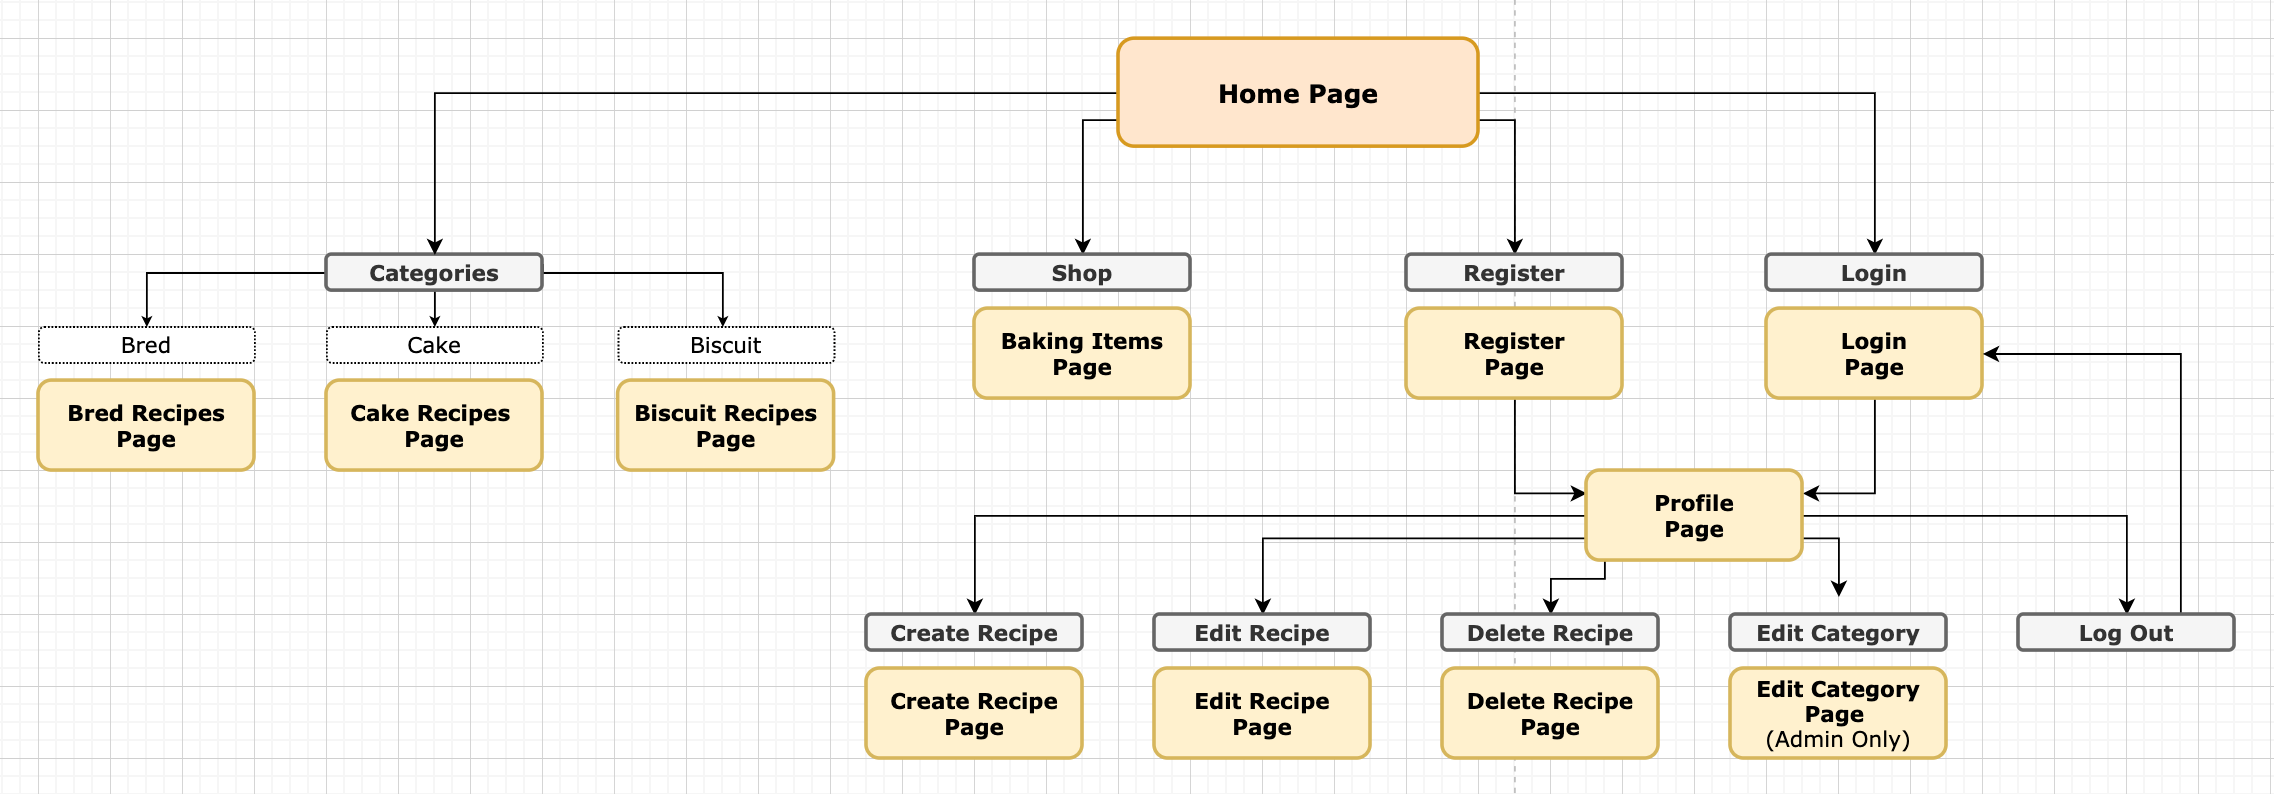
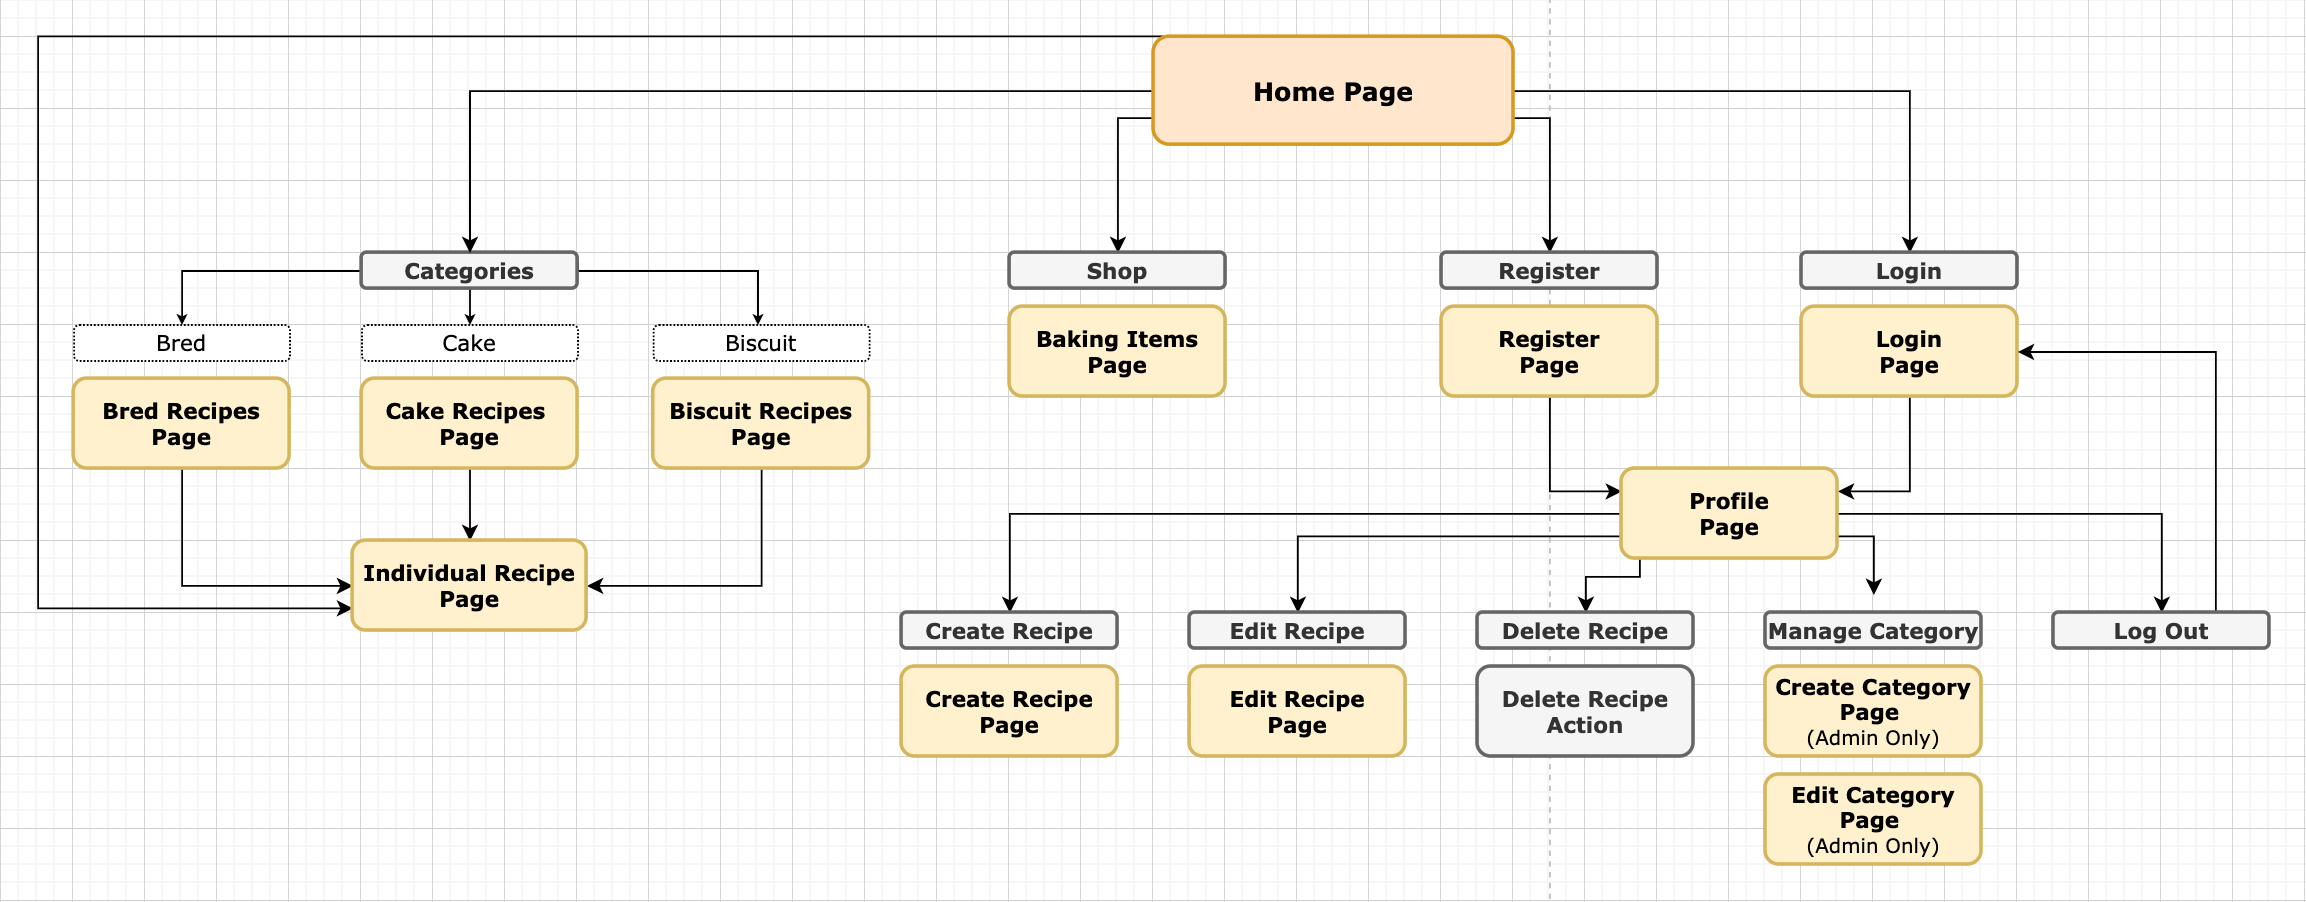
Update skelton plane for ux5 on README.md

Changed region(s): [[0.0, 0.0, 1.0, 1.0]]

diff --git a/README.md b/README.md
@@ -12,6 +12,7 @@ It is a mobile responsive website and the link to the website is available HERE.
     * ##### [Strategy Plane](#strategy-plane-heading)
     * ##### [Scope Plane](#scope-plane-heading)
     * ##### [Structure Plane](#structure-plane-heading)
+    * ##### [Skeleton Plane](#skeleton-plane-heading)
 
 ## WHO'S THIS WEBSITE FOR? <a name="whos-this-website-for-heading"></a>
 This is a website for people who simply love baking, or even just beginning to be interested in baking. People who would like to look at someone’s recipes for new ideas and / or who would like to share their own recipes with other people. 
@@ -33,18 +34,18 @@ The website is designed for those who love baking, and who are interested in bak
 
 All the functions on the tables below are minimum requirements on the website to achieve the current user's and owner's goals. &#40;On a scale of 1 &#91;least&#93; - 5 &#91;most&#93;&#41;
 
-| Opportunity                               | Importance | Viability / Feasibility |
-| :---------------------------------------- | :--------: | :---------------------: |
-| Register                                  |     5      |            5            |
-| Login / Log out                           |     5      |            5            |
-| Post / Edit / Delete Recipes              |     5      |            4            |
-| Search By Keywords                        |     4      |            5            |
-| Show Recipes By Category                  |     4      |            5            |
-| Shop &#40;Affiliate&#41;                  |     4      |            5            |
-| Responsiveness                            |     4      |            5            |
-| Subscribe News Letter                     |     4      |            4            |
-| Edit Recipe Category &#40;Admin only&#41; |     3      |            5            |
-| Page 404                                  |     3      |            4            |
+| Opportunity                                 | Importance | Viability / Feasibility |
+| :------------------------------------------ | :--------: | :---------------------: |
+| Register                                    |     5      |            5            |
+| Login / Log out                             |     5      |            5            |
+| Post / Edit / Delete Recipes                |     5      |            4            |
+| Search By Keywords                          |     4      |            5            |
+| Show Recipes By Category                    |     4      |            5            |
+| Shop &#40;Affiliate&#41;                    |     4      |            5            |
+| Responsiveness                              |     4      |            5            |
+| Subscribe Newsletter                        |     4      |            4            |
+| Manage Recipe Category &#40;Admin only&#41; |     3      |            5            |
+| Page 404                                    |     3      |            4            |
 
 Below are the additional functions that can improve the website, however, these are not mandatory to achieve the current user's and owner's goals. Some are not implemented due to a lack of my current skills & knowledge and some due to a lack of time.
 
@@ -64,39 +65,87 @@ To achieve user and owner’s goals, below are the minimum features to be includ
 *    Categories &#40;Bread, Cake and Biscuit&#41; pages that users can see recipes by the categories &#40;R&#41;
 *    Shop page that users can see some baking items, which are linked to the seller’s website
 *    Register page that users can create an account to post recipes
-*    Login page that users can log in to the website 
+*    Login page that users can log in to the website
 *    Logout function that users can log out
+*    Profile page that users can see all the recipes and access to add, edit and delete recipes 
 *    Create Recipe page that users can create their recipes and post them &#40;C&#41;
 *    Edit Recipe page that users can edit their recipes &#40;U&#41;
-*    Delete Recipe page that users can delete their recipes &#40;D&#41;
-*    Edit Categories page that owner can create, edit and delete categories &#40;C & U & D&#41;
+*    Delete Recipe function that users can delete their recipes &#40;D&#41;
+*    Manage Categories functions that only the owner can create, edit and delete categories &#40;C & U & D&#41;
 *    Search by keywords function that users can search for specific recipes
 *    Subscribe Newsletter input to collect users email address
-*    404 page that will take users back to the home page of the website safely  
+*    404 page that takes users back to the home page of the website safely  
 
 <div align="right"><a href="#table-of-contents">🔝</a></div>
 
 ### Structure Plane <a name="structure-plane-heading"></a>
 
 — Front-end —<br>
-The website consists of a **Home** page with **10 other core pages**.
-*    **Home** &#40;`index.html`&#41;<br>The main page of the website. There is a log, navigation bar to *Categories* &#40;`categories_bred | cake | biscuit.html`&#41;, *Shop* &#40;`shop.html`&#41;, *Register* &#40;`register.html`&#41; and *Login* &#40;`login.html`&#41; pages, a hero image and all the recipes are contained. There is a footer with some social icons and a form to subscribe to newsletters
-*    **Categories** &#40;`categories_bred | cake | biscuit.html`&#41;<br>The pages where users can see recipes by category. The same header and footer are used as *Home*
+The website consists of a **Home** page with **13 other core pages**.
+*    **Home** &#40;`index.html`&#41;<br>The main page of the website. There is a logo, navigation bar to *Categories*, *Shop*, *Register* and *Login* pages, a hero image, all the summary of recipes are contained and users can access to a full *Recipe* page. There is a footer with a form to subscribe to newsletters and some social icons
+
+*    **Categories** &#40;`categories_bred | cake | biscuit.html`&#41;<br>The pages where users can see recipes by category and access to a full *Recipe* page. The same header and footer are used as *Home*
+
 *    **Recipe** &#40;`recipe+uniequ-name/id.html`&#41;<br>The page where the details of recipe are shown individually. The same header and footer are used as *Home*
+
 *    **Shop** &#40;`shop.html`&#41;<br>The page where users can see some baking items and purchase them on the seller's website. The same header and footer are used as *Home*
-*    **Register** &#40;`register.html`&#41;<br>The page where users can create an account. Once users create an account successfully, they will be led to the *Profile* &#40;`profile.html`&#41; page. Header is different to *home* page and there is no footer
-*    **Login** &#40;`login.html`&#41;<br>The page where users who have an account can log in the website. Once users log in successfully, they will be led to the *Profile* &#40;`profile.html`&#41; page. Header is different to *home* page and there is no footer
-*    **Profile** &#40;`login.html`&#41;<br>The page where users are led when they create an account or login. Users see all of their recipes with an option to edit / delete. Users can access to *Edit Recipe* &#40;`edit_recipe+uniequ-name/id.html`&#41; and *Delete Recipe* &#40;`delete_recipe+uniequ-name/id.html`&#41; pages by clicking a button on the recipe. There is an option to add a new recipe from this page as well by clicking a button and that leads to *Create Recipe* &#40;`create_recipe.html`&#41; page. The same header and footer are used as *Home* but there is a *Logout* function instead of *Register* and *Login*
-<br>
+
+*    **Register** &#40;`register.html`&#41;<br>The page where users can create an account. Once users create an account successfully, they will be led to the *Profile* page. Header is different to *home* page and there is no footer
+
+*    **Login** &#40;`login.html`&#41;<br>The page where users who have an account can log in the website. Once users log in successfully, they will be led to the *Profile* page. Header is different to *home* page and there is no footer
+
+*    **Profile** &#40;`profile+uniequ-name/id.html`&#41;<br>The page where users are led when they create an account or login. Users see all of their recipes with an option to edit / delete. Users can access to *Edit Recipe* and *Delete Recipe* function by clicking a button on the recipe. There is an option to add a new recipe from this page by clicking a button and that leads to *Create Recipe* page. The same header and footer are used as *Home* but there is a *Logout* function instead of *Register* and *Login*
+
+*    **Create Recipe** &#40;`create_recipe.html`&#41;<br>The page where users can create recipes. There is no navigation link on the header and it can be accessed by clicking a Create button on *Profile* page. The same header and footer are used as *Home* but there is a *Logout* function instead of *Register* and *Login*
+
+*    **Edit Recipe** &#40;`edit_recipe+uniequ-name/id.html`&#41;<br>The page where users can edit recipes. There is no navigation link on the header and it can be accessed by clicking an Edit button on *Profile* page. The same header and footer are used as *Home* but there is a *Logout* function instead of *Register* and *Login*
+
+*    **Manage Category** &#40;`manage_category.html`&#41;<br>The page where the <ins>owner</ins> can access to create and edit pages, and can delete categories. The admin user (owner) can only see a link to this page on the navigation bar. The same header and footer are used as *Home* but there is a *Logout* function instead of *Register* and *Login*
+
+*    **Create Category** &#40;`create_category.html`&#41;<br>The page where the <ins>owner</ins> can create categories. The same header and footer are used as *Home* but there is a *Logout* function instead of *Register* and *Login*
+
+*    **Edit Category** &#40;`edit_category.html`&#41;<br>The page where the <ins>owner</ins> can edit categories. The same header and footer are used as *Home* but there is a *Logout* function instead of *Register* and *Login*
+
 Any users have access to a full recipe by clicking a link and it is also open on a unique link.<br>
 Below is the chart of the website to show the core relationships between the pages. &#40;All the pages are linked to each other subject to permission&#41;<br>
 
 ![image](https://github.com/Toto-Kotaro-Tanaka/ms3-uncle-jams-baking-recipes/blob/master/assets/readme/ux/front-end-chart.png)<br>
 
 — Back-end —<br>
-Users must have an account to post a recipe so there is a *users collection* that is linked with the *user of baking recipes collection*. Same principle as a *users collection* that users can only post recipes for the categories in a *categories collection* so it is also liked with the *category of baking recipes collection*. Categories in *categories collection* are editable by admin so it is created as an independent collection. Data in *subscription collection* is independent data for newsletters because users who do not have an account can also subscribe to it if they wish to do.<br>
+Users must have an account to post a recipe so there is a *users collection* that have *username* and *password* as keys. *username* in *users collections* is linked with the *username* of *recipes collection* because users who have an account can only create a recipe and they create a recipe in their own account. Same principle as *username* in *users collection* that users can only create a recipe for the categories available in a *categories collection* so it is liked with *category_name* of *recipes collection*. Categories in *categories collection* are editable by admin so it is created as an independent collection. Data in *subscription collection* is independent data for newsletters because users who do not have an account can also subscribe to it if they wish to do. The data in all the collections are retrievable and they can be identified by the key or unique id of the object. <br>
 Below is the chart of the database to show the collections and their relationships.<br>
 
 ![image](https://github.com/Toto-Kotaro-Tanaka/ms3-uncle-jams-baking-recipes/blob/master/assets/readme/ux/back-end-chart.png)<br>
+
+<div align="right"><a href="#table-of-contents">🔝</a></div>
+
+### Skeleton Plane <a name="skeleton-plane-heading"></a>
+It is a mobile-first website because people usually do baking with a recipe so a good mobile-first design helps users whose purpose is to see a recipe. There are wireframes of mobile and desktop sizes for all the core pages of the website. 
+
+*    [Wireframes: Home &#40;`index.html`&#41;](https://github.com/Toto-Kotaro-Tanaka/ms3-uncle-jams-baking-recipes/blob/master/assets/readme/ux/home.png)
+
+*    [Wireframes: Categories &#40;`categories_bred | cake | biscuit.html`&#41;](https://github.com/Toto-Kotaro-Tanaka/ms3-uncle-jams-baking-recipes/blob/master/assets/readme/ux/categories.png)
+
+*    [Wireframes: Recipe &#40;`recipe+uniequ-name/id.html`&#41;](https://github.com/Toto-Kotaro-Tanaka/ms3-uncle-jams-baking-recipes/blob/master/assets/readme/ux/recipe.png)
+
+*    [Wireframes: Shop &#40;`shop.html`&#41;](https://github.com/Toto-Kotaro-Tanaka/ms3-uncle-jams-baking-recipes/blob/master/assets/readme/ux/shop.png)
+
+*    [Wireframes: Register | Login &#40;`register.html` | `login.html`&#41;](https://github.com/Toto-Kotaro-Tanaka/ms3-uncle-jams-baking-recipes/blob/master/assets/readme/ux/register-login.png)
+
+*    [Wireframes: Profile &#40;`profile+uniequ-name/id.html`&#41;](https://github.com/Toto-Kotaro-Tanaka/ms3-uncle-jams-baking-recipes/blob/master/assets/readme/ux/profile.png)
+
+*    [Wireframes: Create Recipe &#40;`create_recipe.html`&#41;](https://github.com/Toto-Kotaro-Tanaka/ms3-uncle-jams-baking-recipes/blob/master/assets/readme/ux/create_recipe.png)
+
+*    [Wireframes: Edit Recipe &#40;`edit_recipe+uniequ-name/id.html`&#41;](https://github.com/Toto-Kotaro-Tanaka/ms3-uncle-jams-baking-recipes/blob/master/assets/readme/ux/edit_recipe.png)
+
+*    [Wireframes: Manage Category &#40;`manage_category.html`&#41;](https://github.com/Toto-Kotaro-Tanaka/ms3-uncle-jams-baking-recipes/blob/master/assets/readme/ux/manage_category.png)
+
+*    [Wireframes: Create Category &#40;`create_category.html`&#41;](https://github.com/Toto-Kotaro-Tanaka/ms3-uncle-jams-baking-recipes/blob/master/assets/readme/ux/create_category.png)
+
+*    [Wireframes: Edit Category &#40;`edit_category.html`&#41;](https://github.com/Toto-Kotaro-Tanaka/ms3-uncle-jams-baking-recipes/blob/master/assets/readme/ux/edit_category.png)
+
+*    [Wireframes: Test 60%](https://github.com/Toto-Kotaro-Tanaka/ms3-uncle-jams-baking-recipes/blob/master/assets/readme/ux/shop60.png)
+
+*    [Wireframes: Test 70%](https://github.com/Toto-Kotaro-Tanaka/ms3-uncle-jams-baking-recipes/blob/master/assets/readme/ux/shop70.png)
 
 <div align="right"><a href="#table-of-contents">🔝</a></div>
